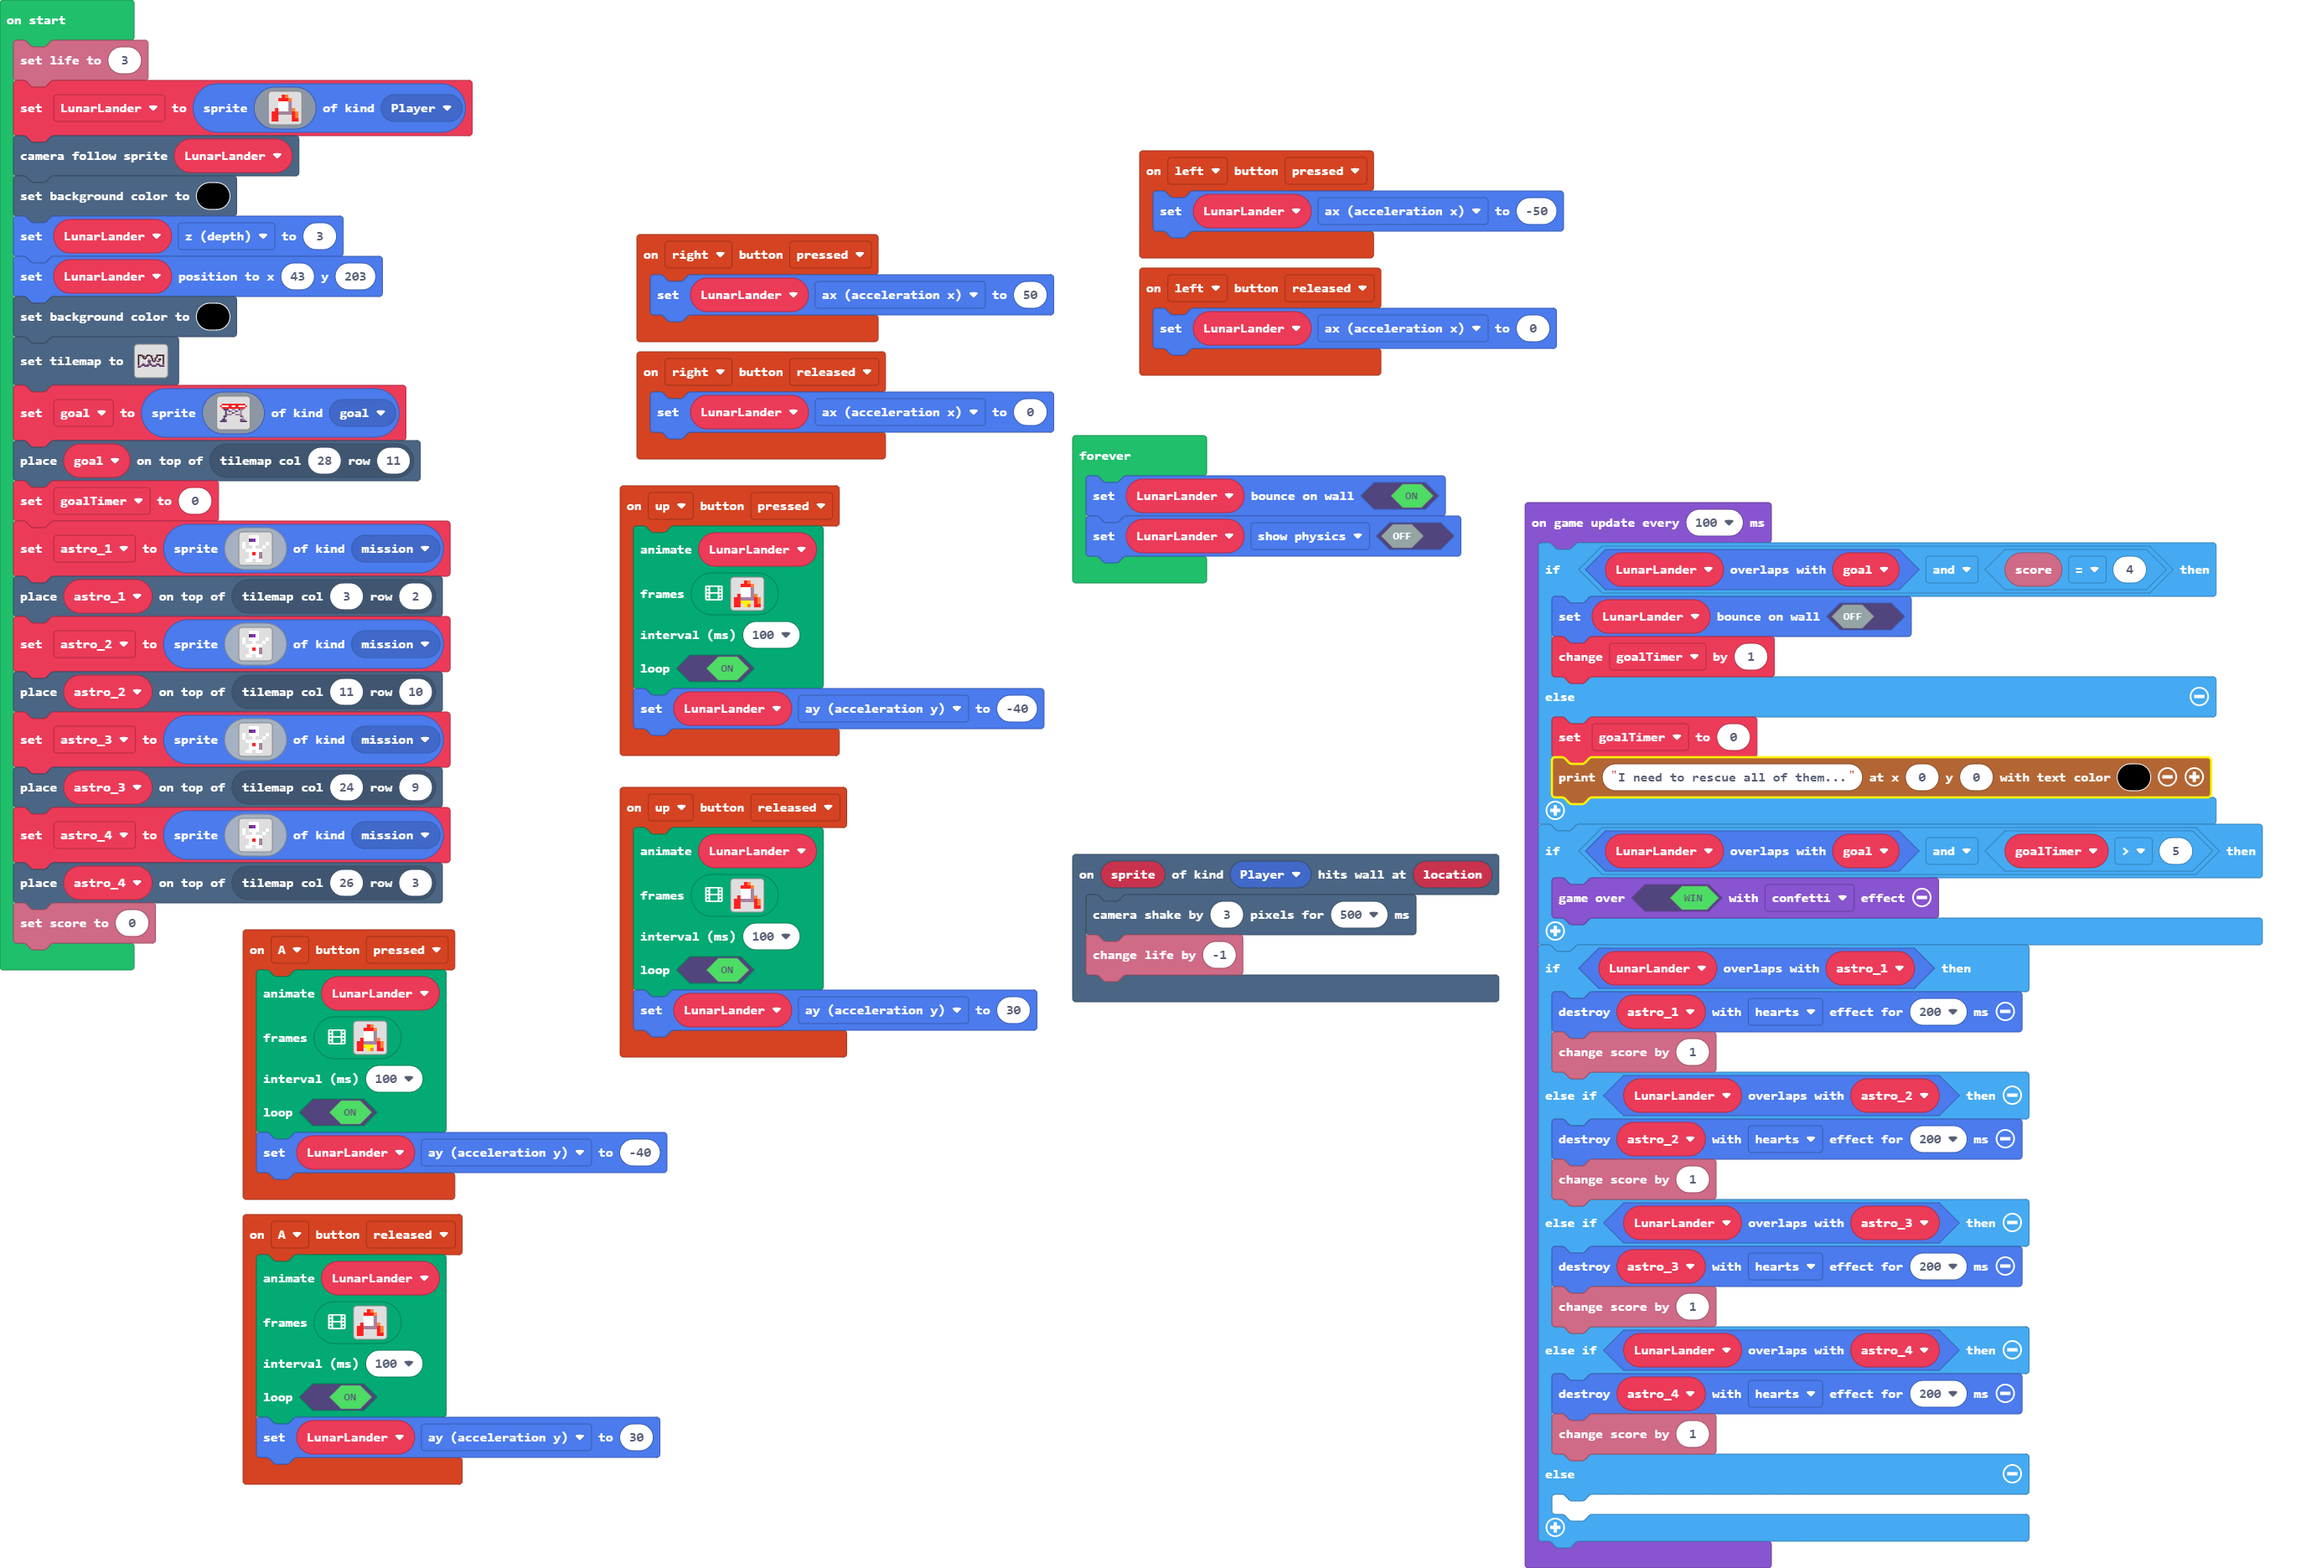
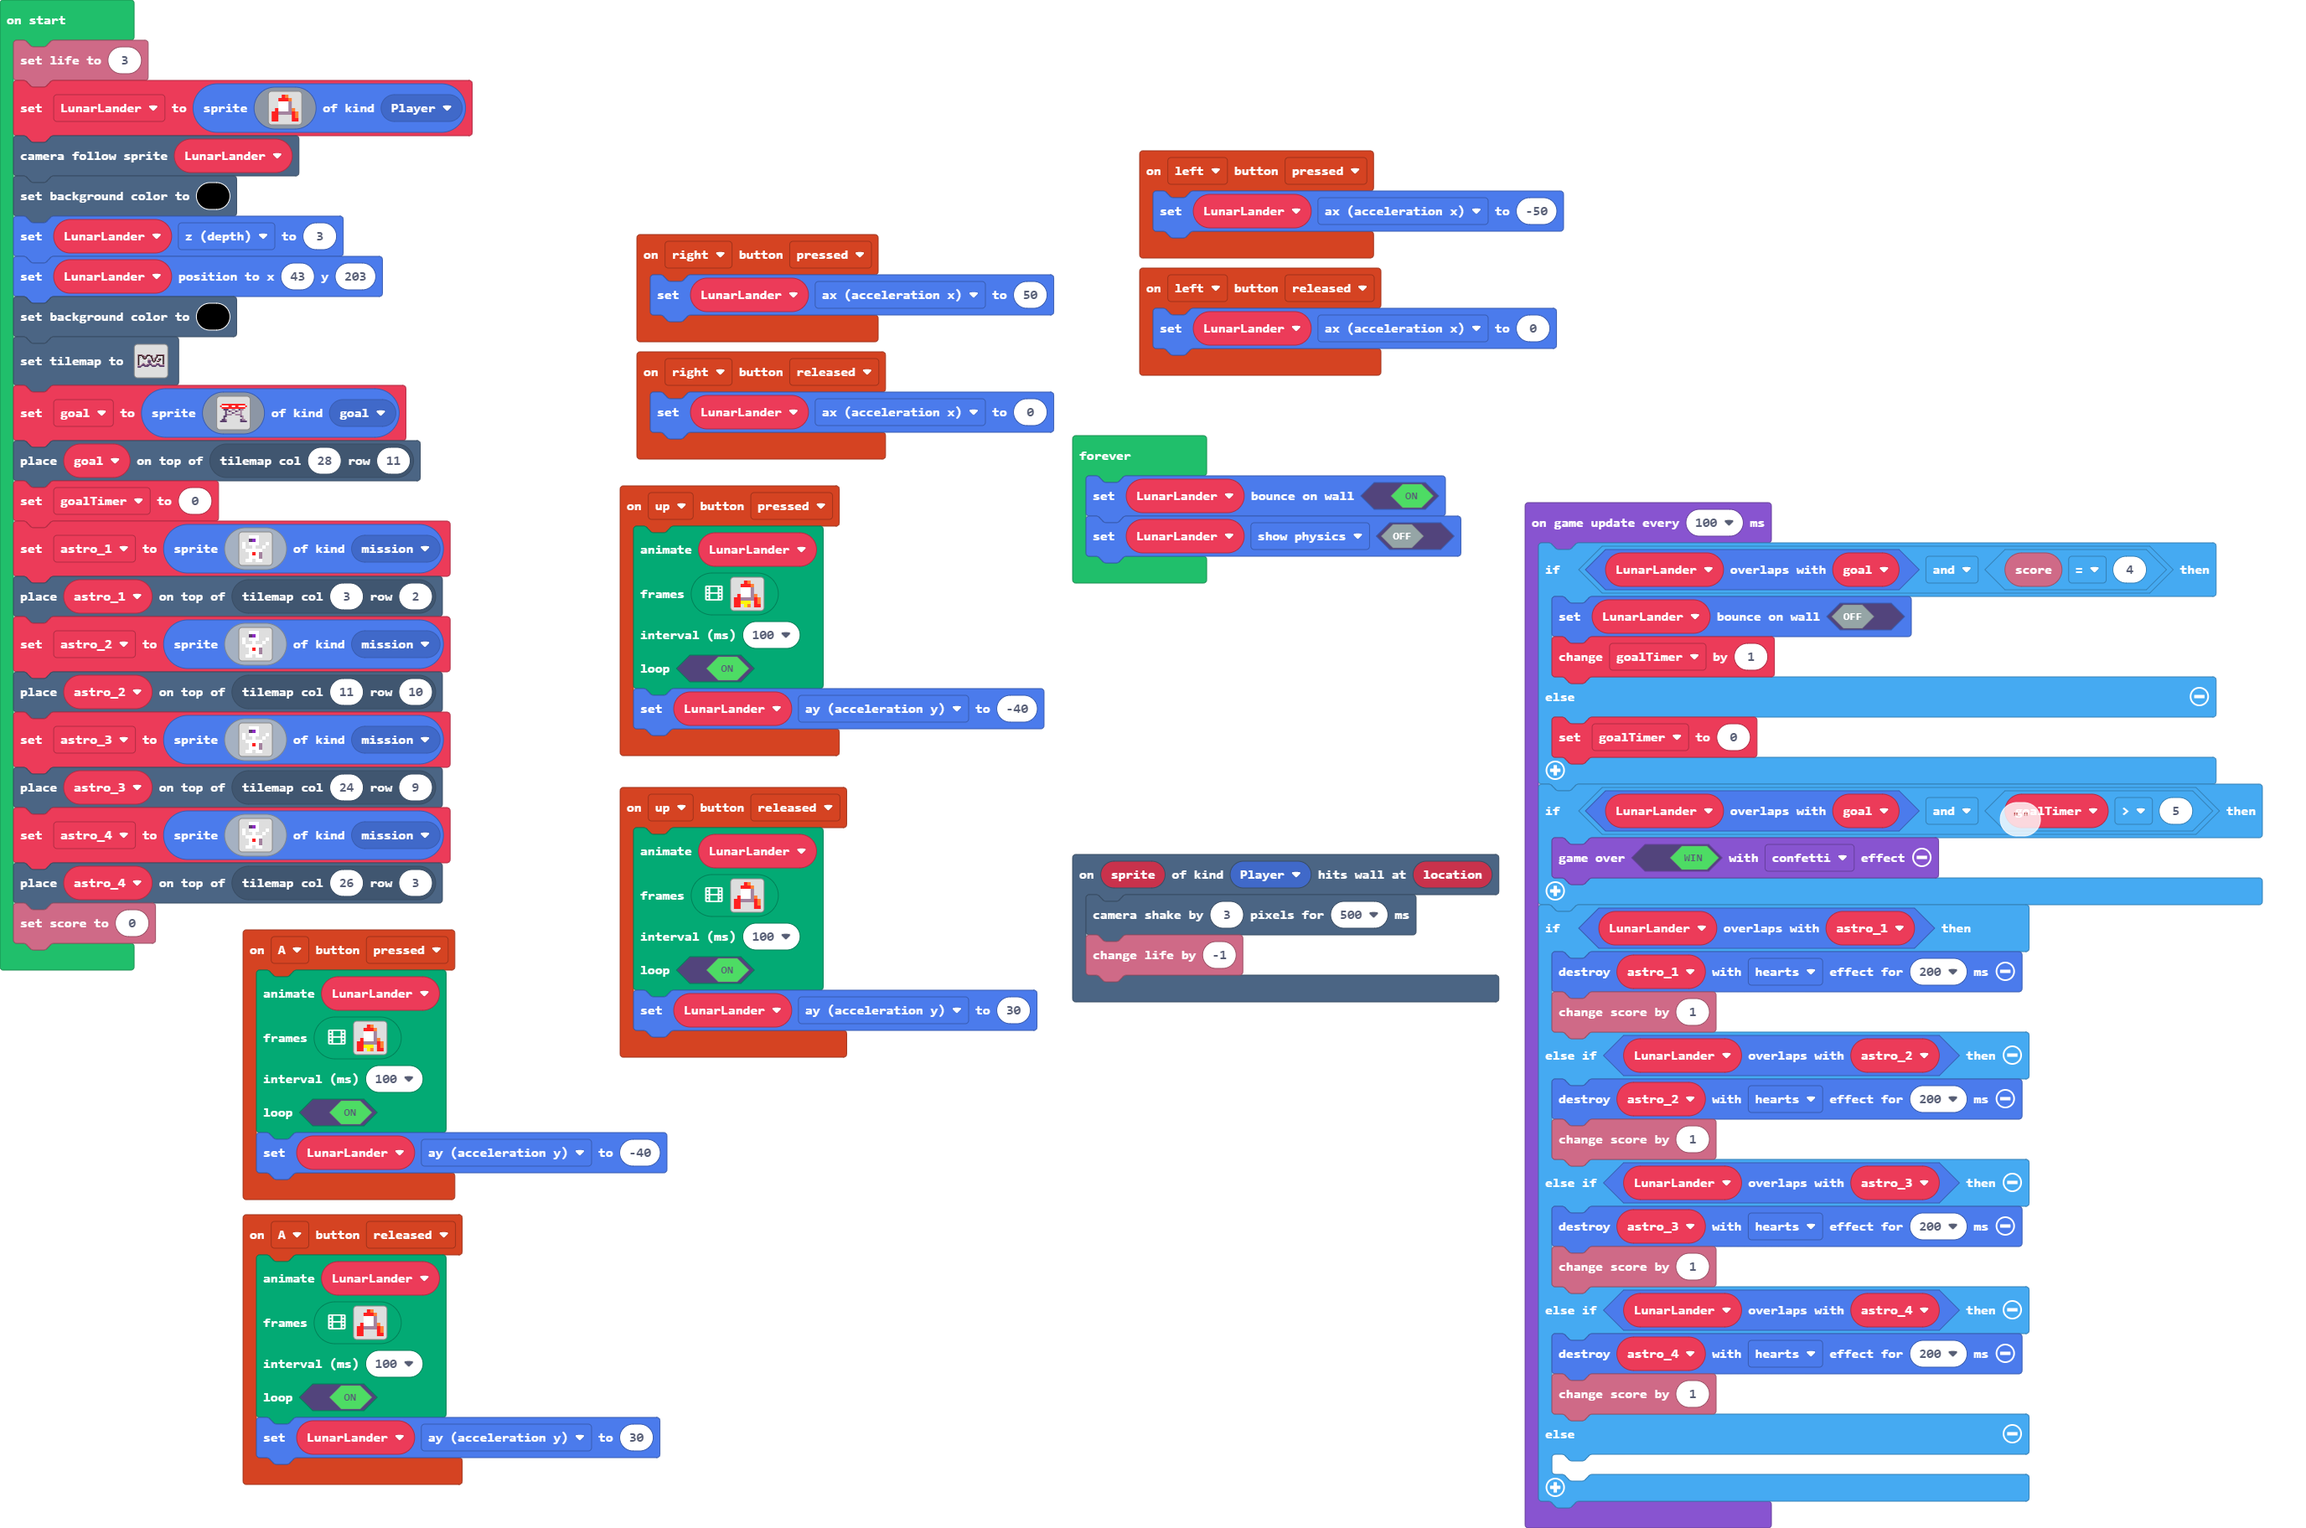
Update pxt.json, main.blocks, main.ts

Changed region(s): [[0.0, 0.0312, 1.0, 1.0]]

diff --git a/main.ts b/main.ts
@@ -268,7 +268,6 @@ game.onUpdateInterval(100, function () {
         goalTimer += 1
     } else {
         goalTimer = 0
-        story.printText("I need to rescue all of them...", 0, 0, 15)
     }
     if (LunarLander.overlapsWith(goal) && goalTimer > 5) {
         game.over(true, effects.confetti)
